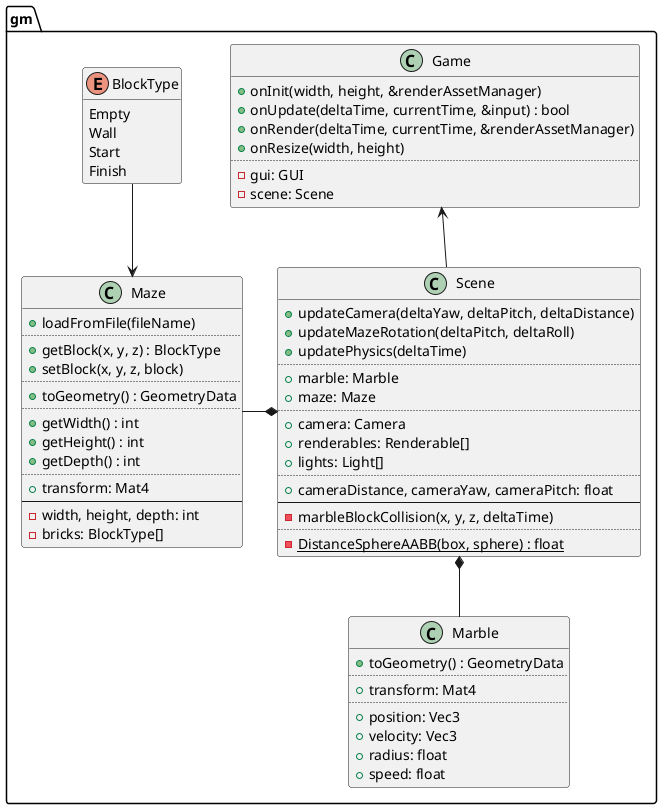
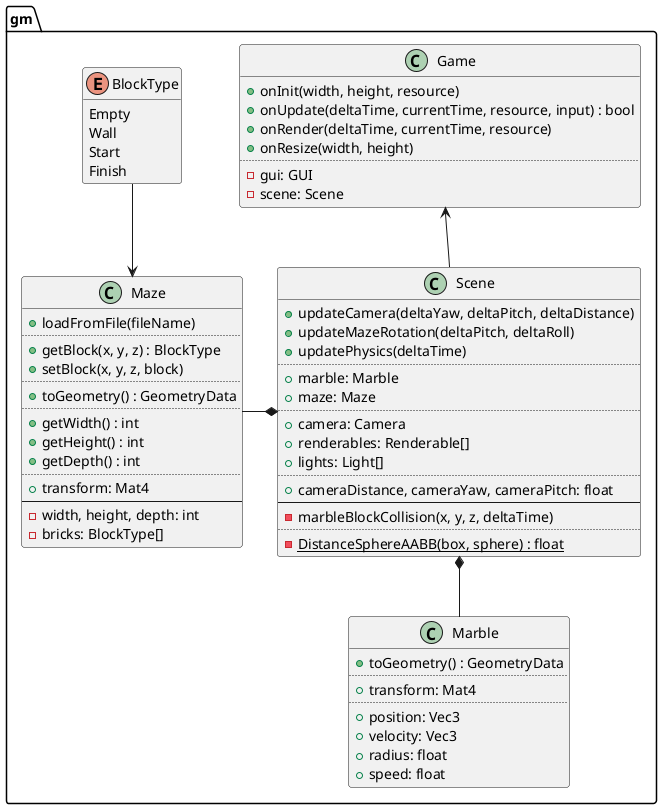
Added ResourceManager reference to Game::onUpdate

Changed region(s): [[0.3323, 0.0618, 0.9668, 0.2472], [0.6647, 0.2472, 0.6949, 0.3399]]

diff --git a/src/gm/game.hpp b/src/gm/game.hpp
@@ -12,7 +12,7 @@ namespace gm {
 		Game();
 
 		void onInit(int width, int height, rs::ResourceManager& resource);
-		bool onUpdate(float deltaTime, float currentTime, const in::Input& input);
+		bool onUpdate(float deltaTime, float currentTime, rs::ResourceManager& resource, const in::Input& input);
 		void onRender(float deltaTime, float currentTime, rs::ResourceManager& resource);
 		void onResize(int width, int height);
 

diff --git a/src/gm/game.cpp b/src/gm/game.cpp
@@ -75,7 +75,7 @@ void Game::onResize(int width, int height) {
 	gui.setFrame(ox, 720 - ox, 0, 480);
 }
 
-bool Game::onUpdate(float deltaTime, float currentTime, const in::Input& input) {
+bool Game::onUpdate(float deltaTime, float currentTime, rs::ResourceManager& resource, const in::Input& input) {
 	if (input.getKey(in::Quit) == in::JustReleased) {
 		return false;
 	}

diff --git a/src/main.cpp b/src/main.cpp
@@ -129,7 +129,7 @@ int main() {
 
 		// Update and render the game
 		while (lagTime > tickTime) {
-			isRunning = game.onUpdate(tickTime, currentTime, input);
+			isRunning = game.onUpdate(tickTime, currentTime, resource, input);
 			lagTime -= tickTime;
 		}
 		game.onRender(deltaTime, currentTime, resource);
